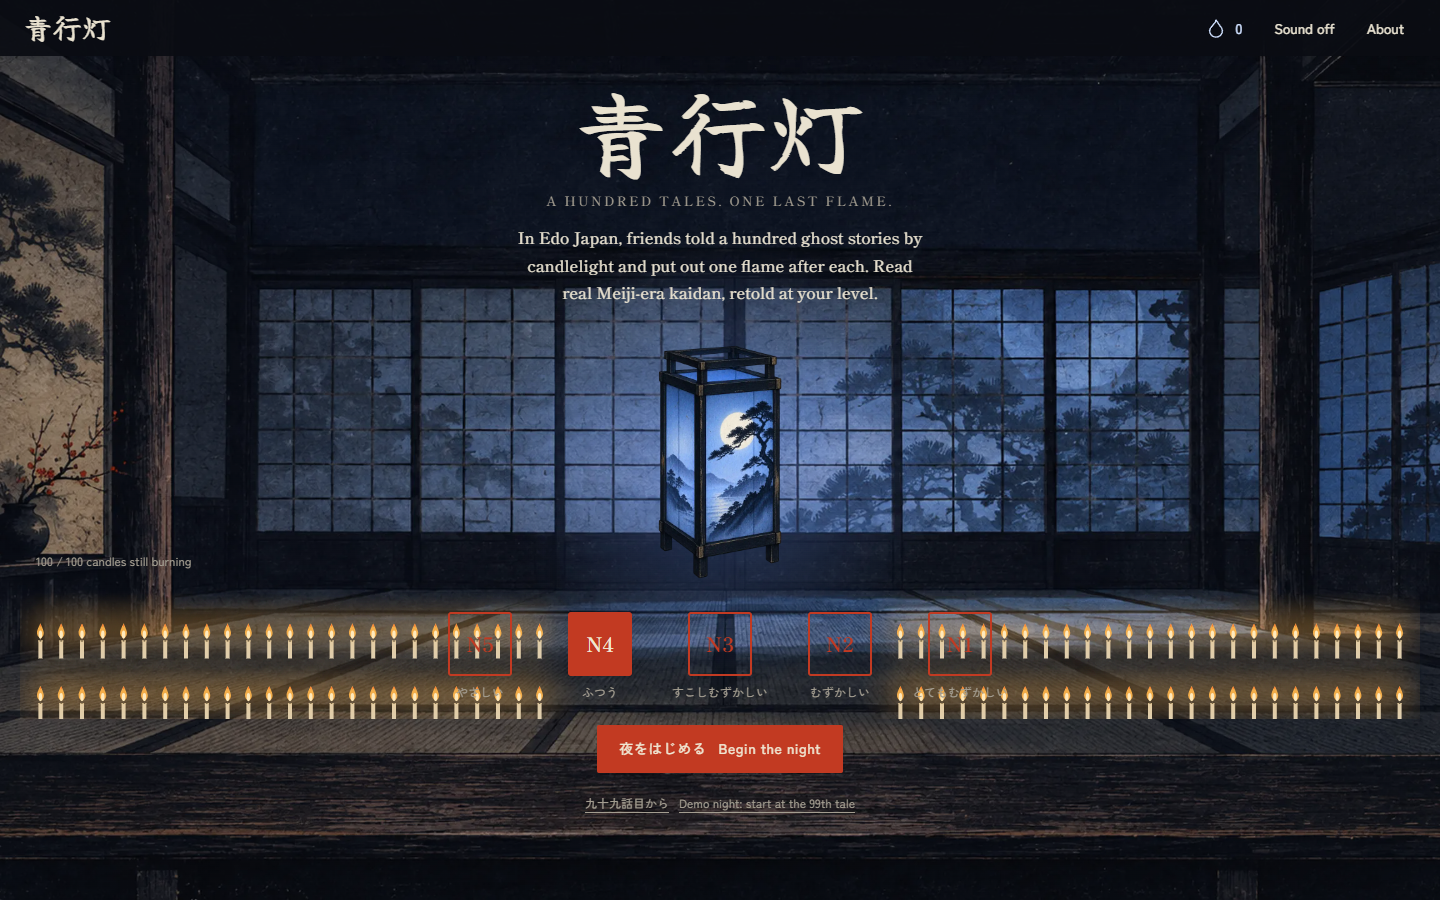
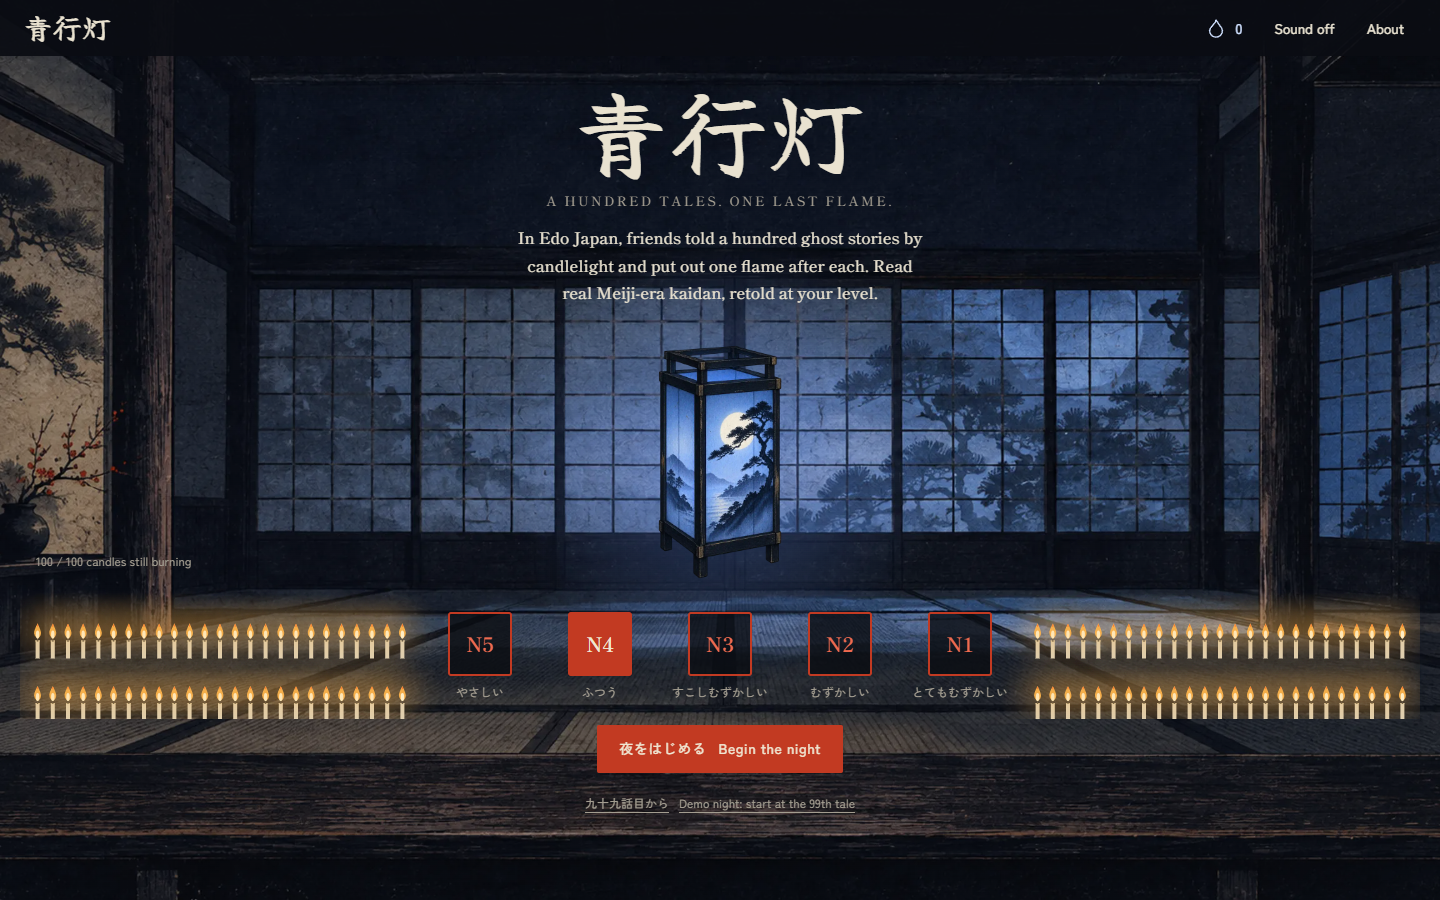
Room: clear the candle gap for five seals and make unselected seals legible
The candle field's centre gap was sized for three seals, so the five level
seals sat on top of candles on desktop. Widen it to 620px. Unselected seals
get a dark backing and a brighter vermilion (new token shu-bright, about
6:1), recorded in DESIGN.md. Screenshots re-shot; 121/121 tests pass.

Changed region(s): [[0.5625, 0.6533, 1.0, 0.8089], [0.0, 0.6533, 0.4062, 0.8089], [0.4688, 0.6844, 0.5312, 0.7467]]

diff --git a/src/components/Room.css b/src/components/Room.css
@@ -13,6 +13,8 @@
 .level-seal-mark { width:64px; height:64px; border:2px solid var(--color-shu); border-radius:3px; display:grid; place-items:center; color:var(--color-shu); font:600 20px var(--font-story); position:relative; }
 .level-seal-mark::after { content:''; position:absolute; inset:-2px; background:url('/assets/hanko-frame.png') center/100% 100%; clip-path:polygon(evenodd,0 0,100% 0,100% 100%,0 100%,0 0,6px 6px,6px calc(100% - 6px),calc(100% - 6px) calc(100% - 6px),calc(100% - 6px) 6px,6px 6px); opacity:.85; pointer-events:none; }
 .level-seal.is-selected .level-seal-mark { background:var(--color-shu); color:var(--color-washi); }
+/* Unselected seals sit on the busy room: give them a dark ground and a brighter vermilion. */
+.level-seal:not(.is-selected) .level-seal-mark { background:rgba(10,12,18,.8); color:var(--color-shu-bright); }
 .level-seal-name { font:500 12px/1.4 var(--font-ui); letter-spacing:.08em; }
 .room-actions { display:grid; justify-items:center; gap:8px; margin-top:24px; }
 .room-actions .button-primary { display:flex; gap:12px; align-items:center; text-decoration:none; }

diff --git a/src/components/Effects.tsx b/src/components/Effects.tsx
@@ -33,7 +33,8 @@ export function CandleField({ out }: { out: number }) {
       ctx.setTransform(dpr, 0, 0, dpr, 0, 0); ctx.clearRect(0, 0, width, height);
       const columns = width < 680 ? 25 : 50, rows = 100 / columns;
       for (let i = 0; i < 100; i++) {
-        const gap = width >= 1024 ? 340 : 0, unit = (i % columns + .5) / columns;
+        // The centre gap leaves room for the five level seals and their labels.
+        const gap = width >= 1024 ? 620 : 0, unit = (i % columns + .5) / columns;
         const x = 10 + unit * (width - 20 - gap) + (unit >= .5 ? gap : 0), y = height - 16 - Math.floor(i / columns) * (height - 46) / rows;
         const seed = ((i * 1664525 + 1013904223) >>> 0) / 4294967296, wave = reduced ? .5 : (Math.sin(time / (2800 + seed * 1800) * Math.PI * 2 + seed * 40) + 1) / 2;
         ctx.fillStyle = '#ddd0b5'; ctx.fillRect(x - 2, y, 4, 18); ctx.fillStyle = '#c9b994'; ctx.fillRect(x - 2, y, 4, 1); ctx.fillStyle = '#4b463d'; ctx.fillRect(x - .5, y - 3, 1, 4);

diff --git a/src/styles/tokens.css b/src/styles/tokens.css
@@ -19,6 +19,7 @@
   --color-sumi-soft: #4b463d;
   --color-shu: #c23a22;
   --color-shu-deep: #9b2a17;
+  --color-shu-bright: #ef6a4f;
   --color-focus: #cfe0ff;
 
   --font-display: 'Yuji Syuku', 'Shippori Mincho B1', serif;

diff --git a/DESIGN.md b/DESIGN.md
@@ -21,6 +21,7 @@ colors:
   sumi-soft: "#4b463d"
   shu: "#c23a22"
   shu-deep: "#9b2a17"
+  shu-bright: "#ef6a4f"
   focus: "#cfe0ff"
 typography:
   display:
@@ -180,7 +181,7 @@ The palette comes from a night room: lacquered darkness, paper, ink, fire and on
 
 ### Accent
 
-- `shu` (vermilion) marks hanko level seals, the primary action ("Begin the night", "Blow out the candle") and the selected level. It appears at most twice on any screen. `shu-deep` is its hover and pressed state.
+- `shu` (vermilion) marks hanko level seals, the primary action ("Begin the night", "Blow out the candle") and the selected level. It appears at most twice on any screen. `shu-deep` is its hover and pressed state. `shu-bright` is the text of an unselected seal on its dark backing over the room, about 6:1.
 
 ### Neutrals
 
